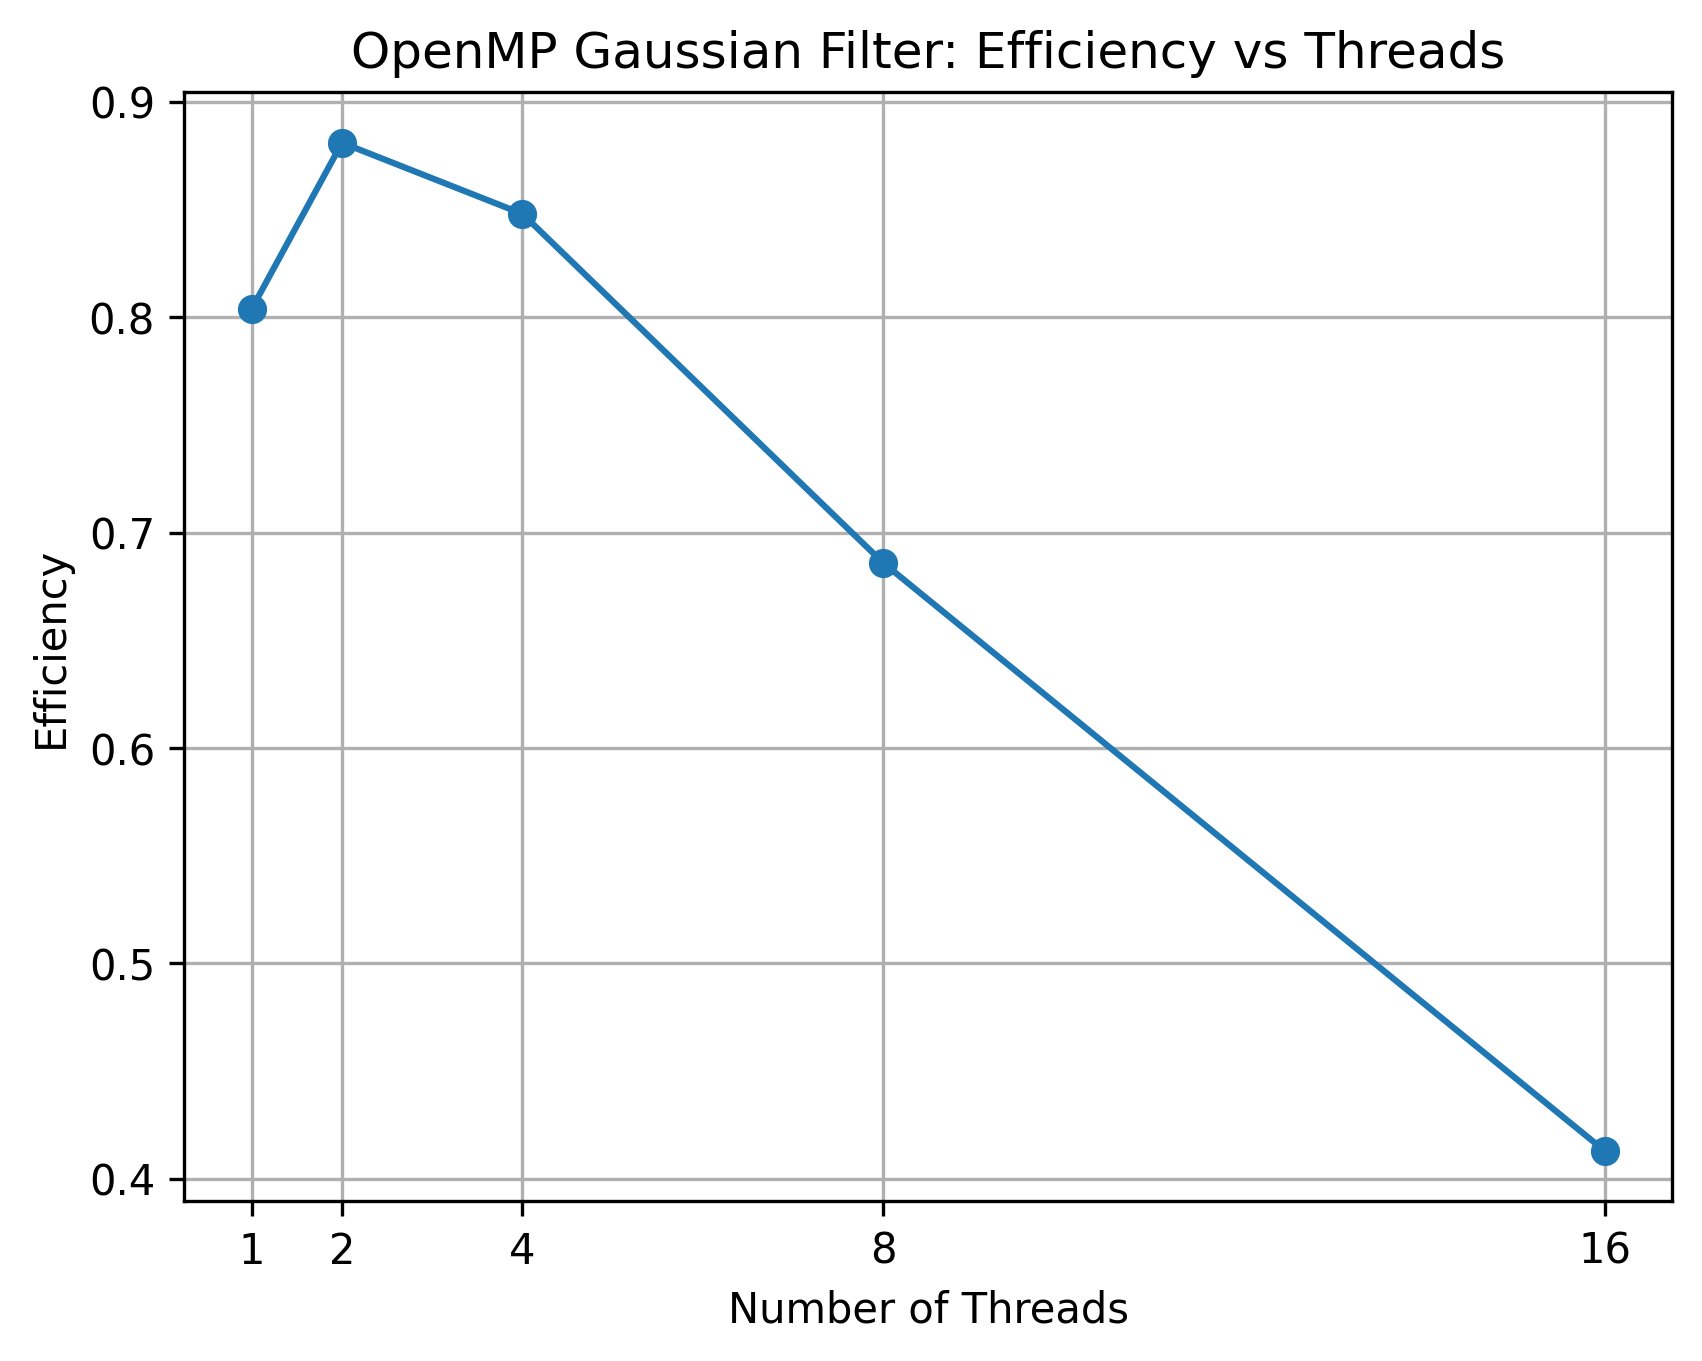
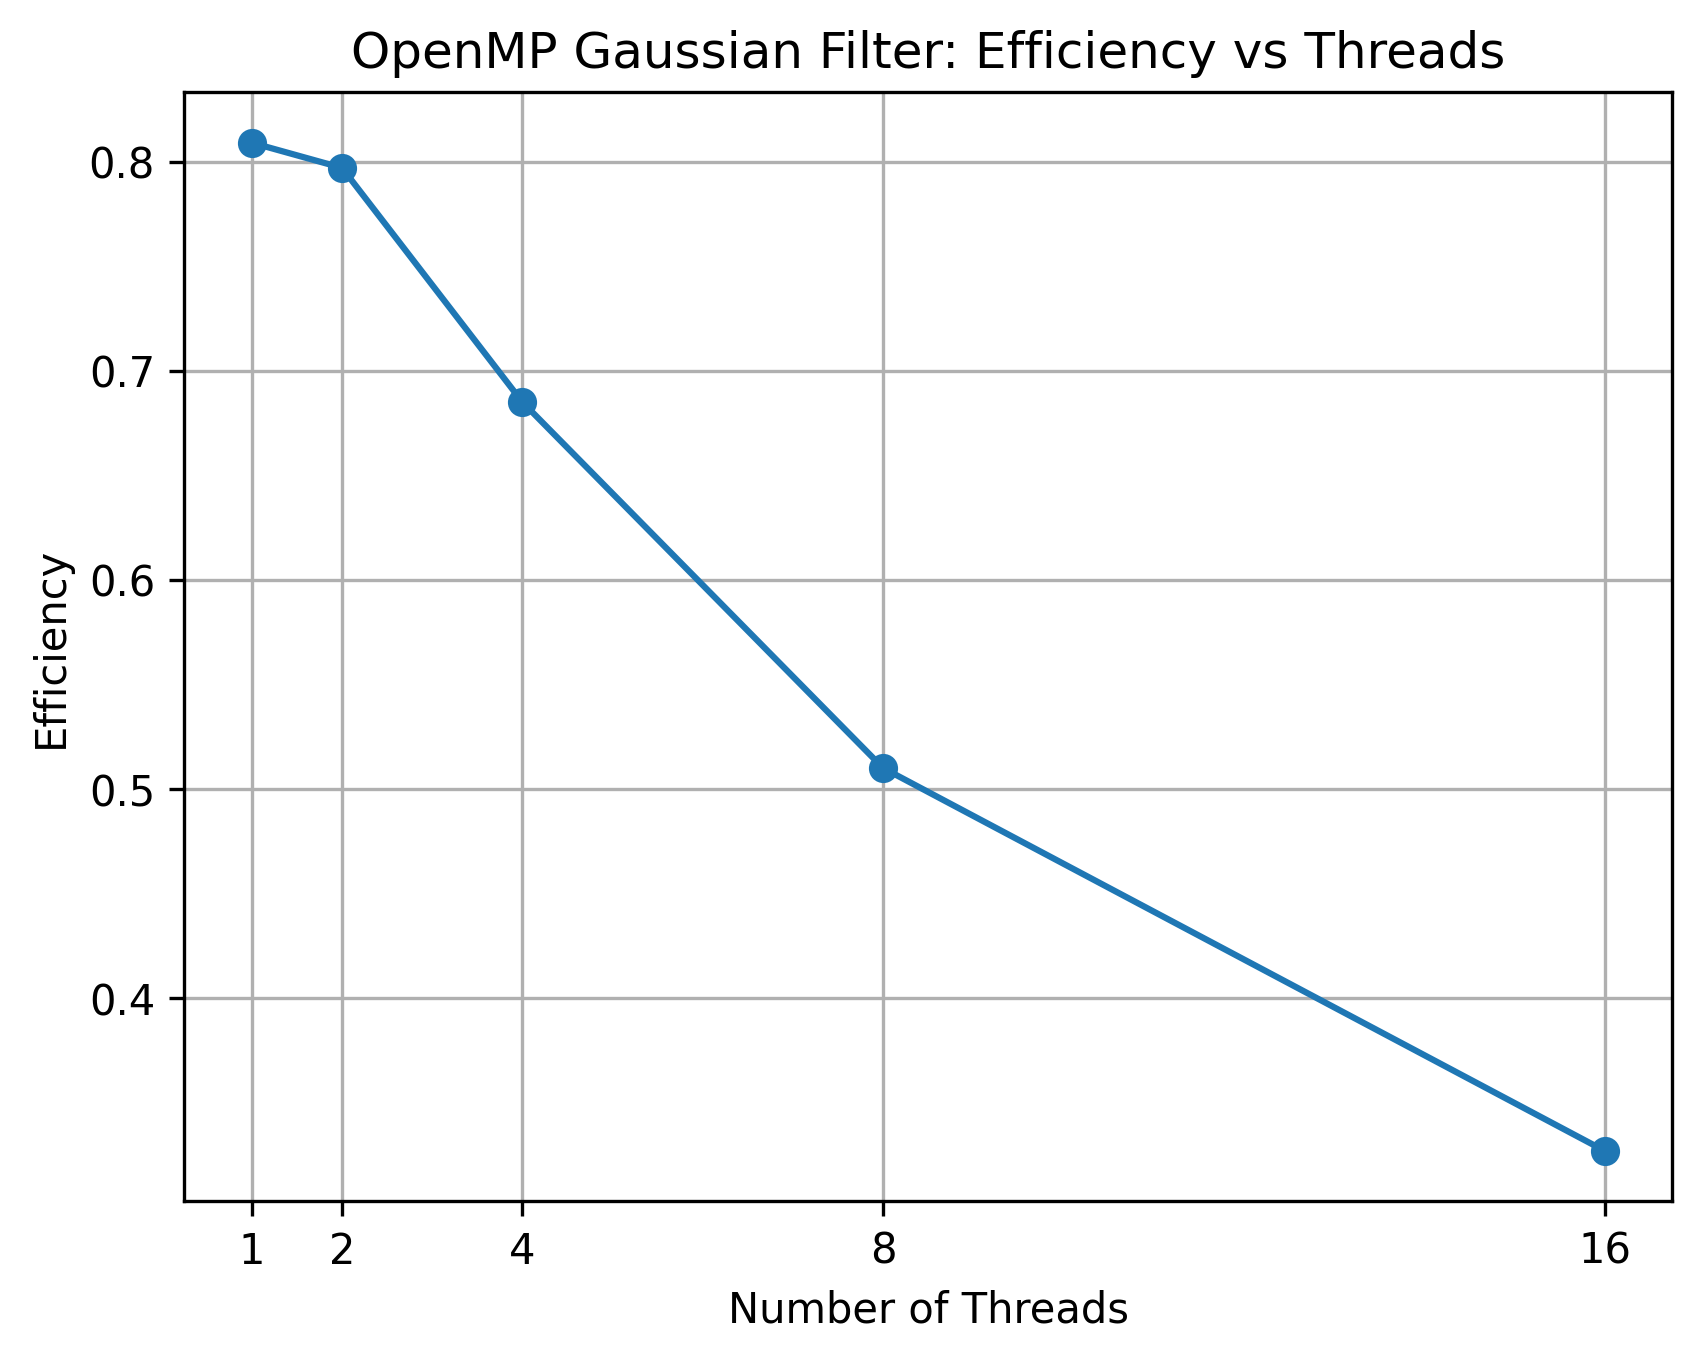
results

diff --git a/scripts/outputImage.py b/scripts/outputImage.py
@@ -1,0 +1,20 @@
+from pathlib import Path
+import imageio.v3 as iio
+import numpy as np
+
+from PIL import Image
+Image.MAX_IMAGE_PIXELS = None
+
+for file in [
+    "output/input.pgm",
+    "output/gaussian_seq.pgm",
+    "output/gaussian_omp.pgm",
+]:
+    img = iio.imread(Path(file))
+    print(file)
+    print("  shape:", img.shape)
+    print("  dtype:", img.dtype)
+    print("  min:", img.min())
+    print("  max:", img.max())
+    print("  mean:", img.mean())
+    print("  percentiles:", np.percentile(img, [0, 1, 5, 50, 95, 99, 100]))

diff --git a/scripts/prepare_tiff.py b/scripts/prepare_tiff.py
@@ -63,7 +63,7 @@ def prepare_tiff(input_path: Path, output_path: Path) -> None:
 
 
 def main() -> None:
-    input_path = Path("data\s1a-iw-grd-vv-20260626t165239-20260626t165304-065143-08362d-001.tiff")
+    input_path = Path("data\s1c-iw-grd-vv-20260710t062658-20260710t062723-008477-010c75-001.tiff")
     output_path = Path("output/input.pgm")
 
     if not input_path.exists():

diff --git a/README.md b/README.md
@@ -35,29 +35,53 @@ Es werden folgende Vergleichsvarianten betrachtet:
 
 ## Ergebnisse
 
+<!---
+
 Die folgenden Abbildungen werden später ergänzt:
 - Vergleich zwischen Originalbild und gefiltertem Bild
 - Laufzeitdiagramm in Abhängigkeit von der Thread-Anzahl
 - Speedup-Diagramm
 - Effizienz-Diagramm
 - Laufzeitvergleich der Scheduling-Strategien
+-->
+
+Die aktuellen Benchmark-Ergebnisse beziehen sich auf den Gaussian-Filter mit einem 3x3-Kernel. Die Bildgröße beträgt `26562 x 16681` Pixel. Getestet wurde auf Laptop 1 mit `static` Scheduling und unterschiedlichen Thread-Anzahlen.
+
+Die erzeugten Diagramme befinden sich im Ordner `results/`:
+
+- `runtime_vs_threads.png`
+- `speedup_vs_threads.png`
+- `efficiency_vs_threads.png`
+
+<table width="100%">
+  <tr>
+    <td width="33%"><img src="results/runtime_vs_threads.png" width="100%"></td>
+    <td width="33%"><img src="results/speedup_vs_threads.png" width="100%"></td>
+    <td width="33%"><img src="results/efficiency_vs_threads.png" width="100%"></td>
+  </tr>
+  <tr>
+    <td>Runtime vs threads</td>
+    <td>Speedup vs Threads</td>
+    <td>Efficency vs threads</td>
+  </tr>
+</table>
 
 ### Laufzeit, Speedup und Effizienz
-| Laptop | Bildgröße | Kernel | Threads | Scheduling | Laufzeit | Speedup | Effizienz |
-| ------ | --------: | ------------: | -----------------: | ---------------: | ----------------: | ----------------: | ----------------: | 
-| Laptop 1 | xxx | xxx | 1 | static | xxx s | xxx | xxx |
-| Laptop 1 | xxx | xxx | 2 | static | xxx s | xxx | xxx |
-| Laptop 1 | xxx | xxx | 4 | static | xxx s | xxx | xxx |
-| Laptop 1 | xxx | xxx | 8 | static | xxx s | xxx | xxx |
-| Laptop 1 | xxx | xxx | 16 | static | xxx s | xxx | xxx |
+| Laptop | Bildgröße | Kernel | Threads | Scheduling | Laufzeit | Speedup | Effizienz | Speicher |
+| ------ | --------: | -----: | ------: | ---------- | -------: | ------: | --------: | -------: |
+| Laptop 1 | 26562 x 16681 | 3x3 | 1 | static | 3.154 s | 0.809 | 0.809 | 1267.66 MB |
+| Laptop 1 | 26562 x 16681 | 3x3 | 2 | static | 1.600 s | 1.594 | 0.797 | 1267.66 MB |
+| Laptop 1 | 26562 x 16681 | 3x3 | 4 | static | 0.931 s | 2.740 | 0.685 | 1267.66 MB |
+| Laptop 1 | 26562 x 16681 | 3x3 | 8 | static | 0.625 s | 4.082 | 0.510 | 1267.66 MB |
+| Laptop 1 | 26562 x 16681 | 3x3 | 16 | static | 0.488 s | 5.227 | 0.327 | 1267.66 MB |
 
 
 ### Scheduling-Vergleich
-| Laptop | Bildgröße | Kernel | Threads | Scheduling | Laufzeit | 
-| ------ | --------: | ------------: | -----------------: | ---------------: | ----------------: | 
-| Laptop 1 | xxx | xxx | 8 | static | xxx s |
-| Laptop 1 | xxx | xxx | 8 | dynamic | xxx s |
-| Laptop 1 | xxx | xxx | 8 | guided | xxx s |
+| Laptop | Bildgröße | Kernel | Threads | Scheduling | Laufzeit |
+| ------ | --------: | -----: | ------: | ---------- | -------: |
+| Laptop 1 | 26562 x 16681 | 3x3 | 8 | static | offen |
+| Laptop 1 | 26562 x 16681 | 3x3 | 8 | dynamic | offen |
+| Laptop 1 | 26562 x 16681 | 3x3 | 8 | guided | offen |
 
 ## Interpretation
 Die Interpretation wird nach Durchführung der Benchmarks ergänzt.